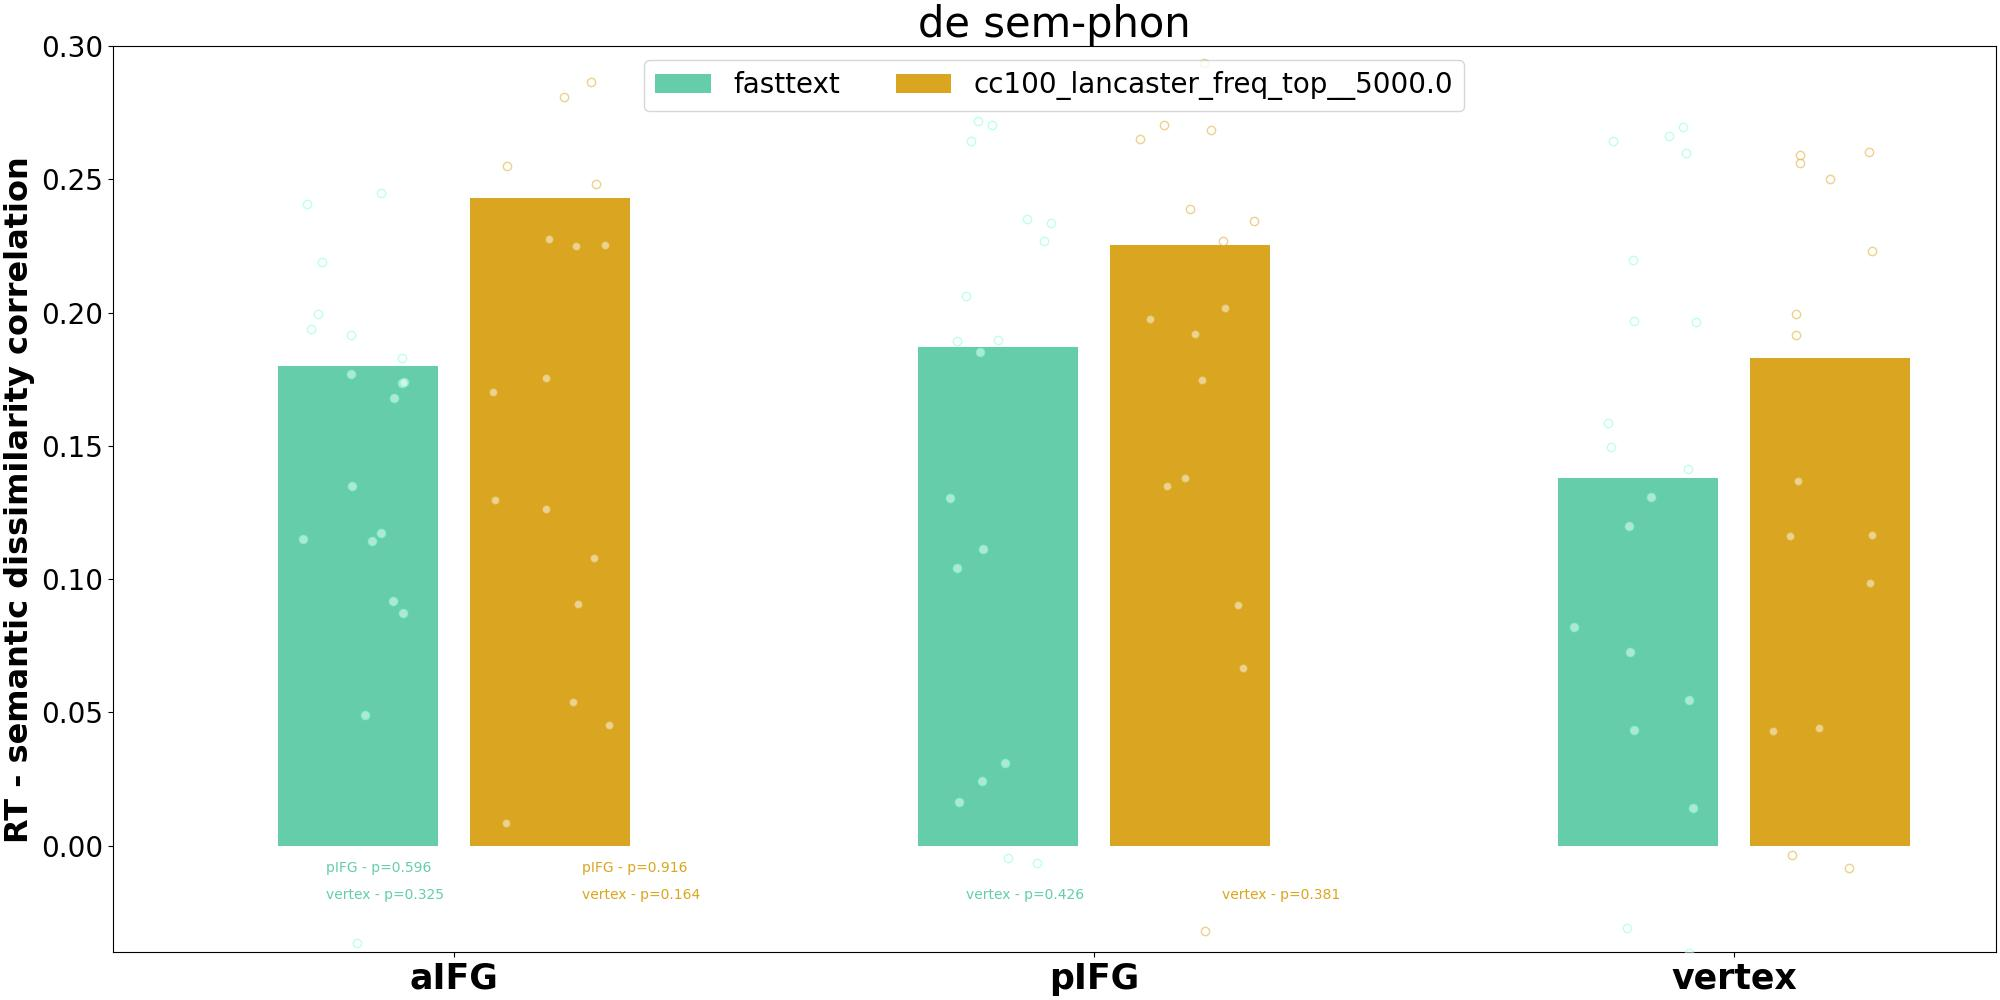
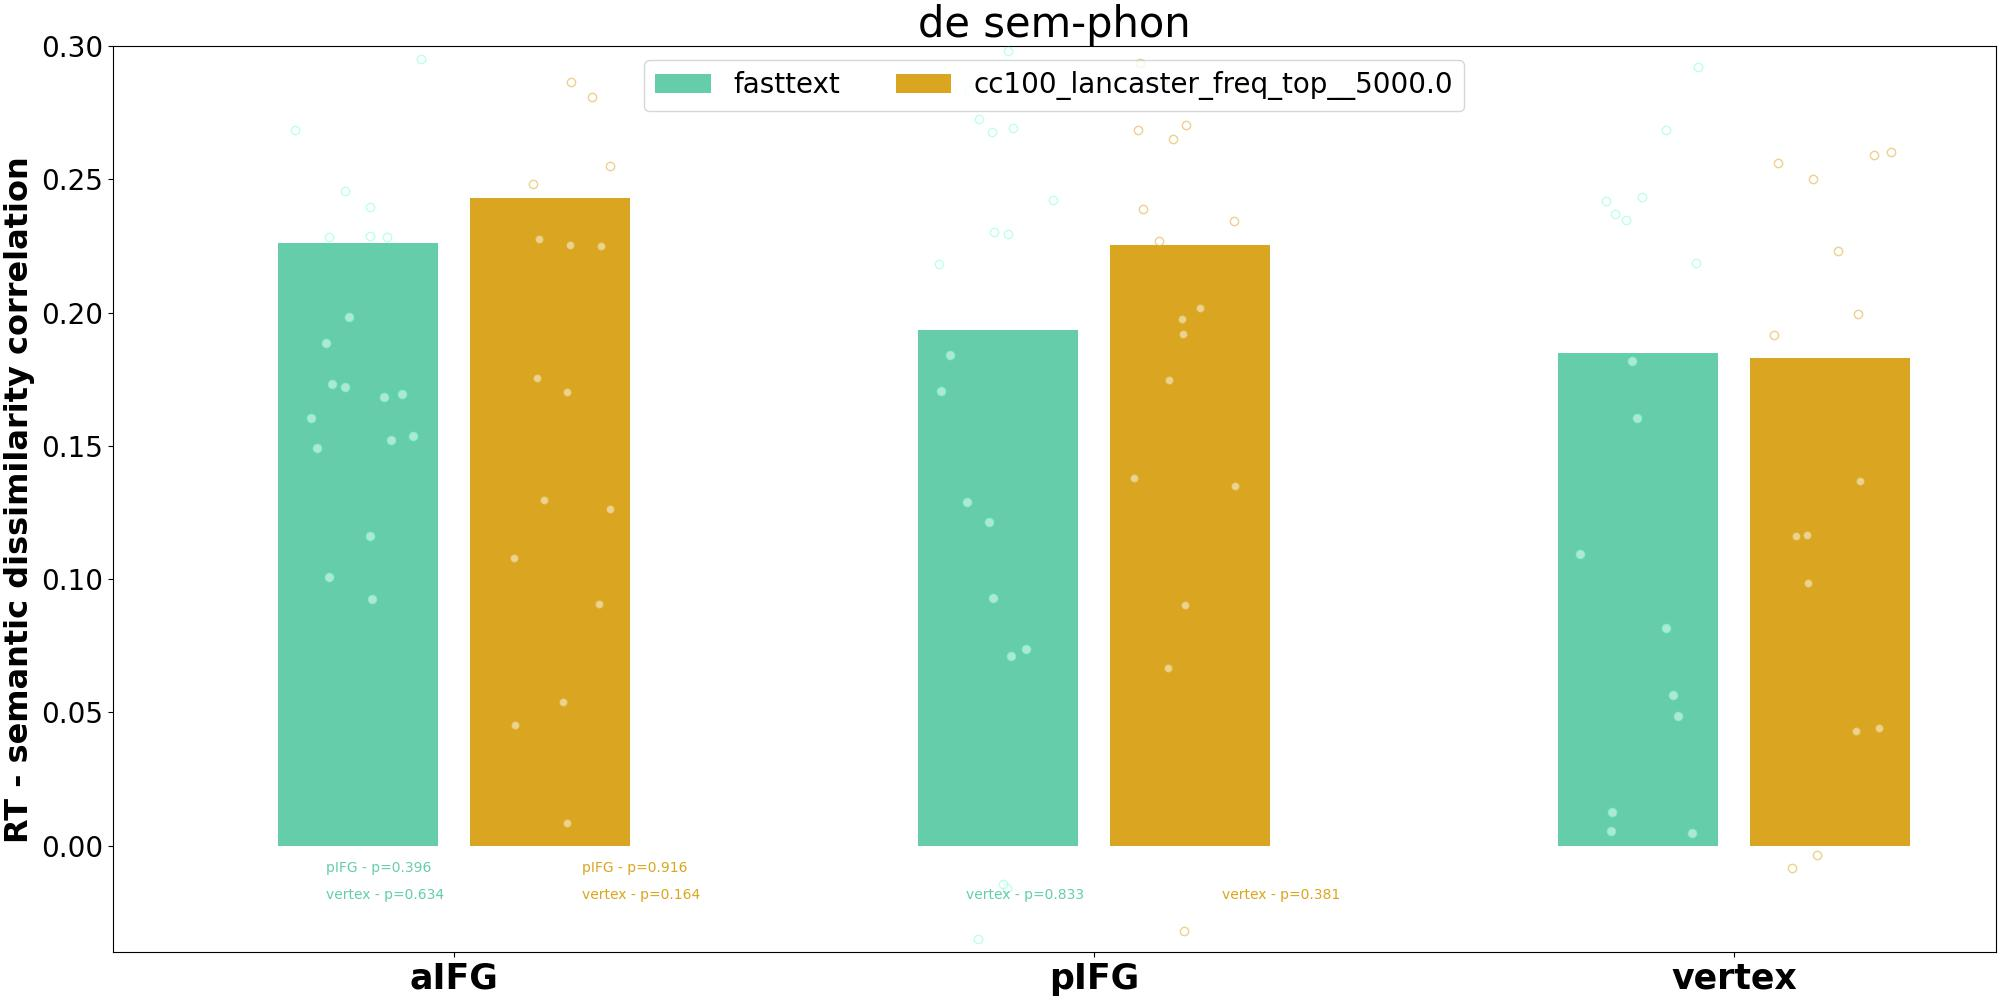
back to ft

diff --git a/word_similarity_relatedness/plot_tms_comparisons.py b/word_similarity_relatedness/plot_tms_comparisons.py
@@ -93,7 +93,8 @@ for l, l_data in model_results.items():
 overall_sorted_ranks = sorted({k : numpy.average(v) for k, v in overall_best.items()}.items(), key=lambda item : item[1])
 print(overall_sorted_ranks[:10])
 best_ft = overall_sorted_ranks[min([r_i for r_i, r in enumerate(overall_sorted_ranks) if 'fasttext' in r[0] and 'concept' not in r[0]])][0]
-best_ft = 'conceptnet'
+#best_ft = 'conceptnet'
+best_ft = 'fasttext'
 best_other = overall_sorted_ranks[min([r_i for r_i, r in enumerate(overall_sorted_ranks) if 'fasttext' not in r[0] and 'concept' not in r[0]])][0]
 
 for l, l_data in results.items():
